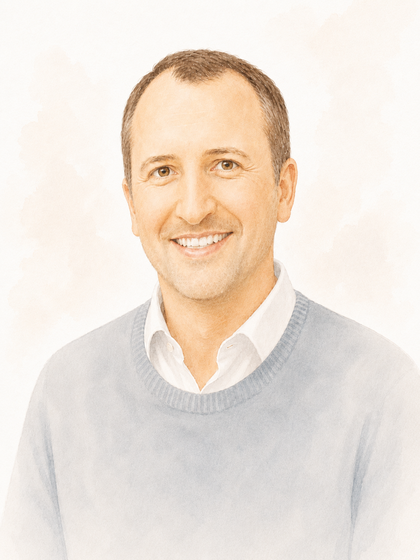
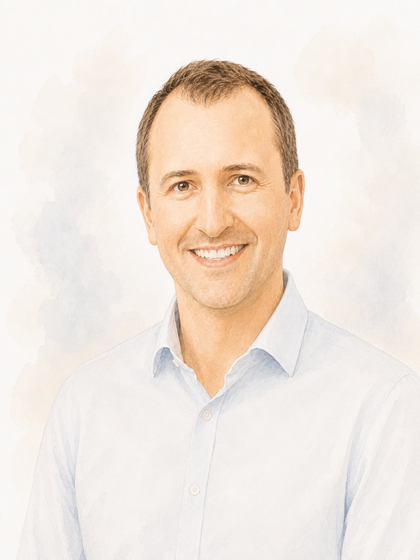
New headshot, and even out the Research header
Headshot regenerated from the new source at the same sizes and filenames, so
the og:image, the twitter:image, and the JSON-LD ImageObject keep resolving
and the declared 420 x 560 stays accurate. 33 KB WebP, 265 KB PNG fallback.

The Research header was the odd one out because its standfirst was a single
sentence where Teaching and Working with organisations have paragraphs, so its
text block was 180px against their 315 and 353 and the illustration stood 75px
proud of it. A second sentence names what the research actually spans, which
is information the page was missing anyway rather than filler:

  It covers multiple team membership, flexible and hybrid arrangements, and
  the conditions under which people can do that work well.

Written in both languages, and deliberately not a restatement of the opening
paragraph below it, which already asks what happens when the same people are
spread across several teams.

Text block now 248px in English and 281px in Dutch, so the illustration sits
41px and 24px proud rather than 75px. All three headers share one layout.

diff --git a/assets/js/site.js b/assets/js/site.js
@@ -287,7 +287,7 @@ const pages = {
             <a class="btn btn-ghost" href="${U('/practice/')}">${T('Working with organisations', 'Samenwerking met de praktijk')}</a>
           </div>
         </div>
-        <div class="portrait"><picture><source srcset="/portrait-staff.webp?v=20260811c" type="image/webp"><img src="/portrait-staff.png?v=20260811c" alt="${T('Portrait of Joost van de Brake', 'Portret van Joost van de Brake')}" width="420" height="560" loading="eager" fetchpriority="high"></picture></div>
+        <div class="portrait"><picture><source srcset="/portrait-staff.webp?v=20260817a" type="image/webp"><img src="/portrait-staff.png?v=20260817a" alt="${T('Portrait of Joost van de Brake', 'Portret van Joost van de Brake')}" width="420" height="560" loading="eager" fetchpriority="high"></picture></div>
       </div>
     </section>
 
@@ -386,11 +386,11 @@ const pages = {
     document.getElementById('pg-research').innerHTML = `
     <div class="pg-hd has-figure"><div class="wrap">
       <div class="pg-hd-text"><p class="eye">${T('Research', 'Onderzoek')}</p><h1>${T('Teams, networks, and the modern shape of work', 'Teams, netwerken en de moderne vormgeving van werk')}</h1><p>${T(
-      'My research investigates how people work together within and across teams in modern organisations.',
-      'Mijn onderzoek gaat over de vraag hoe mensen samenwerken binnen en tussen teams in moderne organisaties.'
+      'My research investigates how people work together within and across teams in modern organisations. It covers multiple team membership, flexible and hybrid arrangements, and the conditions under which people can do that work well.',
+      'Mijn onderzoek gaat over de vraag hoe mensen samenwerken binnen en tussen teams in moderne organisaties. Het beslaat multiple team membership, flexibele en hybride werkvormen, en de voorwaarden waaronder mensen dat werk goed kunnen doen.'
     )}</p></div>
       <figure class="pg-hd-figure">
-        <img src="/assets/illustrations/research.webp?v=20260811c" width="1000" height="750"
+        <img src="/assets/illustrations/research.webp?v=20260817a" width="1000" height="750"
              alt="${T('Joost van de Brake at a desk, annotating a manuscript beside notebooks, printed charts, a network diagram, and a stack of organisational behaviour books.', 'Joost van de Brake aan zijn bureau terwijl hij aantekeningen maakt in een manuscript, naast notitieboeken, uitgeprinte grafieken, een netwerkdiagram en een stapel boeken over organisatiegedrag.')}"
              loading="eager" decoding="async">
       </figure>
@@ -498,7 +498,7 @@ const pages = {
       'Ik geef onderwijs aan studenten Management en Bedrijfskunde en aan senior leidinggevenden over de uitdagingen van moderne werkarrangementen: teamdynamiek, multiple team membership, hybride werk en duurzame inzetbaarheid. Mijn aanpak verbindt academische theorie met praktische toepassing, en ik betrek studenten actief bij mijn eigen onderzoeksprojecten.'
     )}</p></div>
       <figure class="pg-hd-figure">
-        <img src="/assets/illustrations/teaching.webp?v=20260811c" width="1000" height="750"
+        <img src="/assets/illustrations/teaching.webp?v=20260817a" width="1000" height="750"
              alt="${T('Joost van de Brake teaching a full lecture hall, with a network diagram and charts on the screen behind him.', 'Joost van de Brake geeft college in een volle collegezaal, met een netwerkdiagram en grafieken op het scherm achter hem.')}"
              loading="eager" decoding="async">
       </figure>
@@ -580,7 +580,7 @@ const pages = {
       'Ik werk samen met HR-teams, leidinggevenden en projectcontrollers in organisaties die hun team- en mensvraagstukken serieus willen aanpakken en willen handelen op basis van wat de evidence laat zien. Eerdere partners zijn onder andere toegepaste onderzoeksinstituten, ziekenhuizen, energie- en infrastructuurbedrijven, landelijke zorgkoepels, gemeenten en ministeries. Ik sta open voor nieuwe samenwerkingen.'
     )}</p></div>
       <figure class="pg-hd-figure">
-        <img src="/assets/illustrations/practice.webp?v=20260811c" width="1000" height="750"
+        <img src="/assets/illustrations/practice.webp?v=20260817a" width="1000" height="750"
              alt="${T('Joost van de Brake in discussion with five colleagues around a table covered in printed charts and network diagrams.', 'Joost van de Brake in gesprek met vijf collega’s rond een tafel vol uitgeprinte grafieken en netwerkdiagrammen.')}"
              loading="eager" decoding="async">
       </figure>

diff --git a/index.html b/index.html
@@ -231,9 +231,9 @@
   location.replace('/' + id + '/' + (nl ? '?lang=nl' : ''));
 })();
 </script>
-<link rel="stylesheet" href="/assets/css/tokens.css?rev=20260811k">
-<link rel="stylesheet" href="/assets/css/base.css?rev=20260811k">
-<link rel="stylesheet" href="/assets/css/home.css?rev=20260811k">
+<link rel="stylesheet" href="/assets/css/tokens.css?rev=20260817a">
+<link rel="stylesheet" href="/assets/css/base.css?rev=20260817a">
+<link rel="stylesheet" href="/assets/css/home.css?rev=20260817a">
 </head>
 <body data-page="home">
 
@@ -285,7 +285,7 @@
           <a class="btn btn-ghost" href="/practice/">Working with organisations</a>
         </div>
       </div>
-      <div class="portrait"><picture><source srcset="/portrait-staff.webp?v=20260811c" type="image/webp"><img src="/portrait-staff.png?v=20260811c" alt="Portrait of Joost van de Brake" width="420" height="560" loading="eager" fetchpriority="high"></picture></div>
+      <div class="portrait"><picture><source srcset="/portrait-staff.webp?v=20260817a" type="image/webp"><img src="/portrait-staff.png?v=20260817a" alt="Portrait of Joost van de Brake" width="420" height="560" loading="eager" fetchpriority="high"></picture></div>
     </div>
   </section>
 
@@ -384,6 +384,6 @@
 <!-- footer:end -->
 
 
-<script src="/assets/js/site.js?rev=20260811k" defer></script>
+<script src="/assets/js/site.js?rev=20260817a" defer></script>
 </body>
 </html>

diff --git a/mtm-portfolio-navigator/index.html b/mtm-portfolio-navigator/index.html
@@ -31,9 +31,9 @@
   <link rel="preconnect" href="https://fonts.googleapis.com">
   <link rel="preconnect" href="https://fonts.gstatic.com" crossorigin>
   <link href="https://fonts.googleapis.com/css2?family=Libre+Baskerville:ital,wght@0,400;0,700;1,400&family=Source+Sans+3:opsz,wght@9..40,300;9..40,400;9..40,600;9..40,700&display=swap" rel="stylesheet">
-  <link rel="stylesheet" href="/assets/css/tokens.css?rev=20260811k">
-  <link rel="stylesheet" href="/assets/css/base.css?rev=20260811k">
-  <link rel="stylesheet" href="styles.css?rev=20260811k">
+  <link rel="stylesheet" href="/assets/css/tokens.css?rev=20260817a">
+  <link rel="stylesheet" href="/assets/css/base.css?rev=20260817a">
+  <link rel="stylesheet" href="styles.css?rev=20260817a">
   <script type="application/ld+json">
   {
     "@context": "https://schema.org",
@@ -174,7 +174,7 @@
   <noscript>
     <div class="noscript">Enable JavaScript to use the MTM Portfolio Navigator.</div>
   </noscript>
-  <script src="content.js?rev=20260811k"></script>
-  <script src="app.js?rev=20260811k"></script>
+  <script src="content.js?rev=20260817a"></script>
+  <script src="app.js?rev=20260817a"></script>
 </body>
 </html>

diff --git a/mtm-resources/index.html b/mtm-resources/index.html
@@ -31,9 +31,9 @@
   <link rel="preconnect" href="https://fonts.googleapis.com">
   <link rel="preconnect" href="https://fonts.gstatic.com" crossorigin>
   <link href="https://fonts.googleapis.com/css2?family=Libre+Baskerville:ital,wght@0,400;0,700;1,400&family=Source+Sans+3:opsz,wght@9..40,300;9..40,400;9..40,600;9..40,700&display=swap" rel="stylesheet">
-  <link rel="stylesheet" href="/assets/css/tokens.css?rev=20260811k">
-  <link rel="stylesheet" href="/assets/css/base.css?rev=20260811k">
-  <link rel="stylesheet" href="styles.css?rev=20260811k">
+  <link rel="stylesheet" href="/assets/css/tokens.css?rev=20260817a">
+  <link rel="stylesheet" href="/assets/css/base.css?rev=20260817a">
+  <link rel="stylesheet" href="styles.css?rev=20260817a">
   <script type="application/ld+json">
   {
     "@context": "https://schema.org",
@@ -343,7 +343,7 @@
     </div>
   </footer>
 
-  <script src="content.js?rev=20260811k"></script>
-  <script src="app.js?rev=20260811k"></script>
+  <script src="content.js?rev=20260817a"></script>
+  <script src="app.js?rev=20260817a"></script>
 </body>
 </html>

diff --git a/resources/index.html b/resources/index.html
@@ -98,9 +98,9 @@
   ]
 }
 </script>
-<link rel="stylesheet" href="/assets/css/tokens.css?rev=20260811k">
-<link rel="stylesheet" href="/assets/css/base.css?rev=20260811k">
-<link rel="stylesheet" href="/assets/css/home.css?rev=20260811k">
+<link rel="stylesheet" href="/assets/css/tokens.css?rev=20260817a">
+<link rel="stylesheet" href="/assets/css/base.css?rev=20260817a">
+<link rel="stylesheet" href="/assets/css/home.css?rev=20260817a">
 </head>
 <body data-page="resources">
 
@@ -158,6 +158,6 @@
   </div>
 </footer>
 
-<script src="/assets/js/site.js?rev=20260811k" defer></script>
+<script src="/assets/js/site.js?rev=20260817a" defer></script>
 </body>
 </html>

diff --git a/practice/index.html b/practice/index.html
@@ -98,9 +98,9 @@
   ]
 }
 </script>
-<link rel="stylesheet" href="/assets/css/tokens.css?rev=20260811k">
-<link rel="stylesheet" href="/assets/css/base.css?rev=20260811k">
-<link rel="stylesheet" href="/assets/css/home.css?rev=20260811k">
+<link rel="stylesheet" href="/assets/css/tokens.css?rev=20260817a">
+<link rel="stylesheet" href="/assets/css/base.css?rev=20260817a">
+<link rel="stylesheet" href="/assets/css/home.css?rev=20260817a">
 </head>
 <body data-page="practice">
 
@@ -158,6 +158,6 @@
   </div>
 </footer>
 
-<script src="/assets/js/site.js?rev=20260811k" defer></script>
+<script src="/assets/js/site.js?rev=20260817a" defer></script>
 </body>
 </html>

diff --git a/research/index.html b/research/index.html
@@ -98,9 +98,9 @@
   ]
 }
 </script>
-<link rel="stylesheet" href="/assets/css/tokens.css?rev=20260811k">
-<link rel="stylesheet" href="/assets/css/base.css?rev=20260811k">
-<link rel="stylesheet" href="/assets/css/home.css?rev=20260811k">
+<link rel="stylesheet" href="/assets/css/tokens.css?rev=20260817a">
+<link rel="stylesheet" href="/assets/css/base.css?rev=20260817a">
+<link rel="stylesheet" href="/assets/css/home.css?rev=20260817a">
 </head>
 <body data-page="research">
 
@@ -158,6 +158,6 @@
   </div>
 </footer>
 
-<script src="/assets/js/site.js?rev=20260811k" defer></script>
+<script src="/assets/js/site.js?rev=20260817a" defer></script>
 </body>
 </html>

diff --git a/teaching/index.html b/teaching/index.html
@@ -98,9 +98,9 @@
   ]
 }
 </script>
-<link rel="stylesheet" href="/assets/css/tokens.css?rev=20260811k">
-<link rel="stylesheet" href="/assets/css/base.css?rev=20260811k">
-<link rel="stylesheet" href="/assets/css/home.css?rev=20260811k">
+<link rel="stylesheet" href="/assets/css/tokens.css?rev=20260817a">
+<link rel="stylesheet" href="/assets/css/base.css?rev=20260817a">
+<link rel="stylesheet" href="/assets/css/home.css?rev=20260817a">
 </head>
 <body data-page="teaching">
 
@@ -158,6 +158,6 @@
   </div>
 </footer>
 
-<script src="/assets/js/site.js?rev=20260811k" defer></script>
+<script src="/assets/js/site.js?rev=20260817a" defer></script>
 </body>
 </html>

diff --git a/contact/index.html b/contact/index.html
@@ -98,9 +98,9 @@
   ]
 }
 </script>
-<link rel="stylesheet" href="/assets/css/tokens.css?rev=20260811k">
-<link rel="stylesheet" href="/assets/css/base.css?rev=20260811k">
-<link rel="stylesheet" href="/assets/css/home.css?rev=20260811k">
+<link rel="stylesheet" href="/assets/css/tokens.css?rev=20260817a">
+<link rel="stylesheet" href="/assets/css/base.css?rev=20260817a">
+<link rel="stylesheet" href="/assets/css/home.css?rev=20260817a">
 </head>
 <body data-page="contact">
 
@@ -158,6 +158,6 @@
   </div>
 </footer>
 
-<script src="/assets/js/site.js?rev=20260811k" defer></script>
+<script src="/assets/js/site.js?rev=20260817a" defer></script>
 </body>
 </html>
